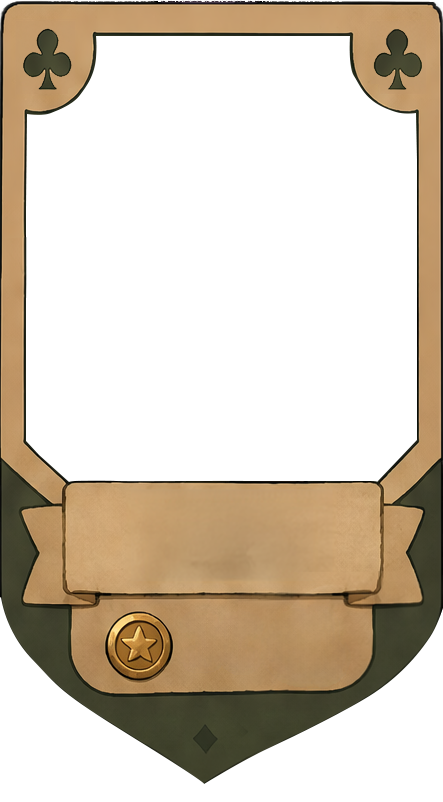
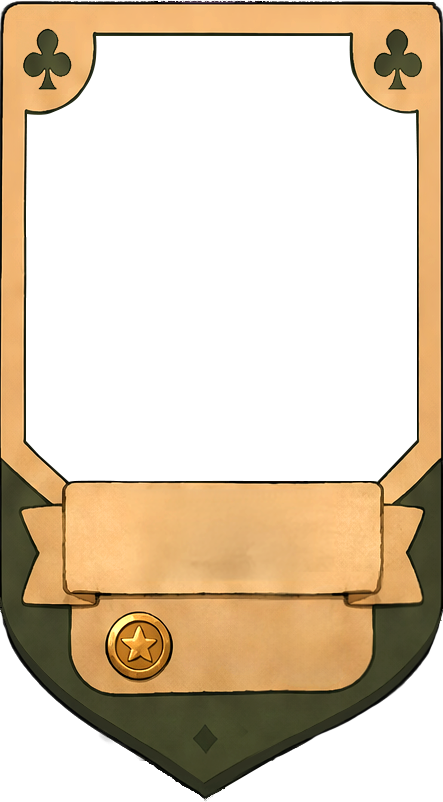
P81: patron art v2 reload, gone-home = darkened desaturated card + topmost GONE HOME stamp, character kept

diff --git a/fark_proto.html b/fark_proto.html
@@ -367,6 +367,8 @@ html.fkSA #gbSheet,html.fkSA #peekSheet{padding-bottom:env(safe-area-inset-botto
   transition:filter .12s,transform .55s cubic-bezier(.3,1.15,.35,1)}
 .ptcard:active{filter:brightness(1.12)}
 .ptcard.gone{cursor:default}
+.ptcard.gone .ly,.ptcard.gone .lffg,.ptcard.gone .ctext{filter:saturate(.5) brightness(.55)}
+.ptcard .lgone{position:absolute;inset:0;width:100%;height:100%;object-fit:contain;z-index:4;pointer-events:none}
 .ptcard.enter{animation:ptCardIn .72s cubic-bezier(.3,1.18,.36,1) var(--d,0s) both}
 @keyframes ptCardIn{from{transform:translate3d(0,260%,0) rotate(var(--rot,0deg))}
   to{transform:translate3d(0,0,0) rotate(var(--rot,0deg))}}
@@ -12611,13 +12613,14 @@ function _ptRenderCards(){
     d.style.cssText='width:'+lay.w+'%;left:'+P[0]+'%;top:'+P[1]+'%;--rot:'+P[2]+'deg;--d:'+(0.05+i*0.11)+'s';
     d.innerHTML=
       '<div class="cwrap">'
-      +'<img class="ly lbg" src="'+PT_P+'bg_'+st.color+'.png" alt="">'
-      +'<img class="ly lback" src="'+PT_P+'frame_bg_'+st.color+'.png" alt="">'
-      +'<img class="ly lwho" src="'+PT_P+(st.gone?'GoneHome':st.art)+'.png" alt="">'
+      +'<img class="ly lbg" src="'+PT_P+'bg_'+st.color+'.png?v=2" alt="">'
+      +'<img class="ly lback" src="'+PT_P+'frame_bg_'+st.color+'.png?v=2" alt="">'
+      +'<img class="ly lwho" src="'+PT_P+st.art+'.png?v=2" alt="">'
       +'<div class="lfront">'
-        +'<img class="lffg" src="'+PT_P+'frame_fg_'+st.color+'.png" alt="">'
+        +'<img class="lffg" src="'+PT_P+'frame_fg_'+st.color+'.png?v=2" alt="">'
         +'<canvas class="ctext"></canvas>'
         +(st.gone?'':'<img class="cseal" src="'+PT_TRAITDIR+st.trait+'.png" alt="" title="'+st.word+'">')
+        +(st.gone?'<img class="lgone" src="'+PT_P+'GoneHome.png?v=2" alt="">':'')
         +'</div></div>';
     if(st.sealed&&!st.gone){
       var smoke='<div class="csout"></div><div class="csmoke"><i></i><i></i><i></i><i></i>';
@@ -13035,7 +13038,7 @@ function _matchDress(isBoss){
     /* measured face crops: [bg-size%, pos-x%, pos-y%] per character */
     var CROP={Krox:[109,100,0],Eira:[106,0,0],Nebb:[118,52,0],Regis:[106,100,0]};
     var cr=CROP[art]||[175,50,10];
-    tok.style.backgroundImage=(!isBoss&&art)?'url("Art/Assets/Frames/Patrons/'+art+'.png")':'none';
+    tok.style.backgroundImage=(!isBoss&&art)?'url("Art/Assets/Frames/Patrons/'+art+'.png?v=2")':'none';
     tok.style.backgroundSize=cr[0]+'%';
     tok.style.backgroundPosition=cr[1]+'% '+cr[2]+'%';
   }

diff --git a/docs/PROTO_NOTES.md b/docs/PROTO_NOTES.md
@@ -1225,3 +1225,14 @@ selection whose single tag equals the total (triple 3s, one lone 5)
 shows only the centred total — per-die tags appear only when they add
 information. YIELD text sized to exactly match ROLL's (6.2cqw;
 verified identical computed size).
+
+## P81 — patron frames v2 + gone-home rework (done)
+
+Denis brightened the patron frame art and moved GONE HOME's lettering
+down inside its file — all card layer srcs (+ the match token crop)
+carry ?v=2 to force the reload. Gone-home cards now KEEP the
+character portrait, darken+desaturate the whole card (saturate .5 /
+brightness .55 on bg/back/who/frame/banner), and GoneHome.png stamps
+on TOP (z4, object-fit contain, no positional overrides — its
+placement lives in the art). Verified against a forced gone seat;
+active cards stay unfiltered.
